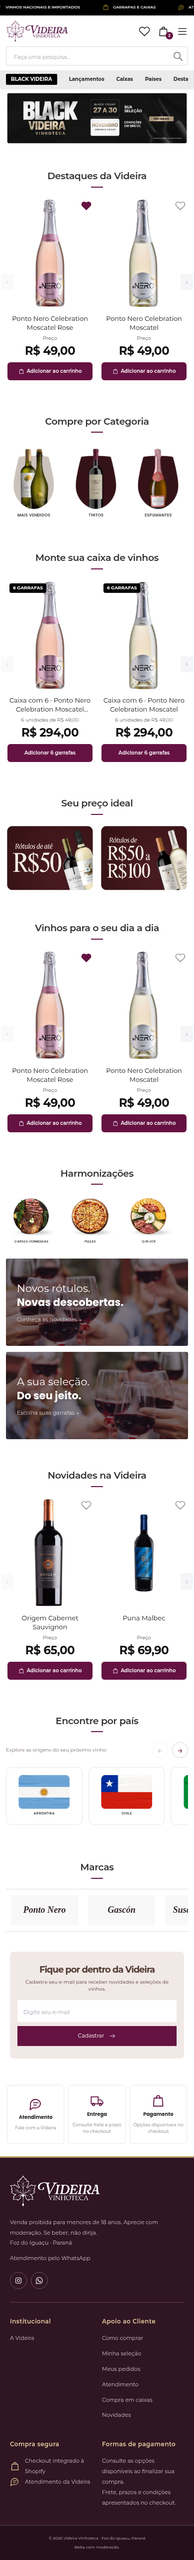
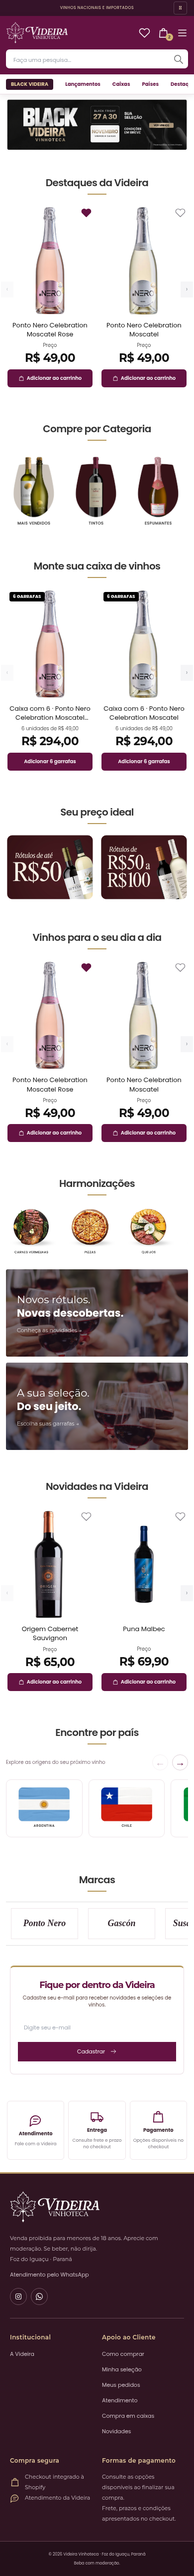
Restore original Videira product page and brand identity with single-message announcements

diff --git a/assets/videira-original-product.css b/assets/videira-original-product.css
@@ -1,0 +1,3 @@
+/* Product layout from Shopify-Videira main; scoped to product pages. */
+.zip-videira.template-product .pd-main{color:#171717;background:#fdf6e1}.zip-videira.template-product .pd-breadcrumb{display:flex;flex-wrap:wrap;gap:10px;font-size:12px;margin:0 0 30px;color:#51444a}.zip-videira.template-product .pd-breadcrumb a{text-decoration:underline;text-underline-offset:3px}.zip-videira.template-product .pd-grid{display:grid;grid-template-columns:minmax(0,1fr) minmax(0,1fr);gap:64px;align-items:start}.zip-videira.template-product .pd-gallery{position:sticky;top:110px}.zip-videira.template-product .pd-photo-button{position:relative;display:flex;align-items:center;justify-content:center;width:100%;min-height:540px;background:#fff;border:1px solid #e9e0d4;padding:40px;cursor:zoom-in}.zip-videira.template-product .pd-original-photo{display:block;max-width:100%;height:440px;object-fit:contain}.zip-videira.template-product .pd-zoom-hint{position:absolute;bottom:18px;right:18px;font-size:11px;color:#651242}.zip-videira.template-product .pd-summary h1{font-size:clamp(30px,3vw,44px);line-height:1.2;letter-spacing:-1.3px;margin:12px 0 18px;color:#171717}.zip-videira.template-product .pd-origin{font-size:12px;letter-spacing:.8px;margin:0;color:#51444a}.zip-videira.template-product .pd-winery{color:#651242;text-decoration:underline;text-underline-offset:4px;font-size:15px}.zip-videira.template-product .pd-style{font-size:14px;line-height:1.8;margin:12px 0 25px}.zip-videira.template-product .pd-price{padding:24px 0;border-top:1px solid #e5d9c8}.zip-videira.template-product .pd-price>span{font-size:12px;display:block}.zip-videira.template-product .pd-price>strong{display:block;font-size:34px;line-height:1.4;font-weight:700;color:#171717}.zip-videira.template-product .pd-price p{font-size:13px;line-height:1.7;margin:5px 0}.zip-videira.template-product .pd-purchase{display:flex;gap:16px;align-items:end}.zip-videira.template-product .pd-purchase label{font-size:12px;flex:0 0 82px}.zip-videira.template-product .pd-purchase input{display:block;width:82px;min-height:50px;margin-top:7px;border:1px solid #bdb0a0;background:white;border-radius:3px;padding:10px;font-size:16px;color:#171717}.zip-videira.template-product .pd-purchase .sf-button{flex:1;min-height:50px;background:#651242;color:white;border-color:#651242;border-radius:3px;font-size:13px!important;padding:12px}.zip-videira.template-product .pd-purchase button:disabled{opacity:.55;cursor:not-allowed}.zip-videira.template-product .pd-added{min-height:23px;font-size:12px;margin:8px 0}.zip-videira.template-product .pd-whatsapp{display:flex;align-items:center;justify-content:center;gap:12px;border:1px solid #651242;color:#651242;min-height:50px;font-size:13px;border-radius:3px;padding:12px}.zip-videira.template-product .pd-whatsapp svg{width:19px;height:19px}.zip-videira.template-product .pd-highlights{display:grid;grid-template-columns:1fr 1fr;gap:16px;padding:25px 0;margin-top:15px}.zip-videira.template-product .pd-highlights>div{border-bottom:1px solid #e5d9c8;padding-bottom:12px}.zip-videira.template-product .pd-highlights dt{font-size:11px;margin-bottom:5px;color:#51444a}.zip-videira.template-product .pd-highlights dd{font-size:14px;margin:0}.zip-videira.template-product .pd-information{margin-top:55px}.zip-videira.template-product .pd-section-nav{display:flex;flex-wrap:wrap;border-bottom:1px solid #cdbfac;gap:30px;padding:18px 0}.zip-videira.template-product .pd-section-nav a{font-size:14px;color:#171717}.zip-videira.template-product .pd-section-nav a:hover{text-decoration:underline;color:#651242}.zip-videira.template-product .pd-content{padding:34px 0;border-bottom:1px solid #e5d9c8;scroll-margin-top:115px}.zip-videira.template-product .pd-content h2{font-size:26px!important;color:#171717;margin:0 0 22px}.zip-videira.template-product .pd-content h3{font-size:15px;margin:0 0 10px;color:#171717}.zip-videira.template-product .pd-content p{font-size:14px;line-height:1.9;max-width:900px;white-space:pre-line;color:#242024}.zip-videira.template-product .pd-specs{display:grid;grid-template-columns:1fr 1fr;column-gap:50px;margin:0}.zip-videira.template-product .pd-specs>div{display:grid;grid-template-columns:1fr 1.3fr;gap:20px;padding:15px 0;border-bottom:1px solid #e5d9c8;font-size:14px}.zip-videira.template-product .pd-specs dt{color:#51444a}.zip-videira.template-product .pd-specs dd{margin:0;text-align:right}.zip-videira.template-product .pd-sensory{display:grid;grid-template-columns:1fr 1fr;gap:28px}.zip-videira.template-product .pd-photo-missing{display:flex;flex-direction:column;align-items:center;gap:20px;color:#51444a;font-size:13px}.zip-videira.template-product .pd-photo-missing svg{width:60px;height:60px}.zip-videira.template-product .pd-state{min-height:60vh;display:flex;flex-direction:column;gap:25px;align-items:center;justify-content:center;text-align:center}.zip-videira.template-product .pd-state h1{font-size:28px}.zip-videira.template-product .pd-zoom{position:fixed;inset:0;margin:auto;border:0;background:#fff;max-width:95vw;width:900px;height:90dvh;max-height:90dvh;padding:45px;overflow:auto}.zip-videira.template-product .pd-zoom[open]{display:flex;align-items:center;justify-content:center}.zip-videira.template-product .pd-zoom::backdrop{background:#160b16c9}.zip-videira.template-product .pd-zoom .pd-original-photo{height:100%;max-height:100%;max-width:100%;object-fit:contain}.zip-videira.template-product .pd-zoom-close{position:absolute;top:12px;right:12px;width:40px;height:40px;border:1px solid #d7cbbc;background:white;display:grid;place-items:center;color:#171717;z-index:1}.zip-videira.template-product .pd-zoom-close svg{width:22px;height:22px}.zip-videira.template-product .pd-main button:focus-visible,.zip-videira.template-product .pd-main a:focus-visible{outline:3px solid #f8af3c;outline-offset:3px}@media (max-width:760px){.zip-videira.template-product .pd-grid{grid-template-columns:1fr;gap:28px}.zip-videira.template-product .pd-gallery{position:static}.zip-videira.template-product .pd-photo-button{min-height:350px;padding:25px}.zip-videira.template-product .pd-original-photo{height:300px;max-width:100%}.zip-videira.template-product .pd-summary h1{font-size:31px}.zip-videira.template-product .pd-breadcrumb{font-size:11px;margin-bottom:22px}.zip-videira.template-product .pd-purchase{gap:12px}.zip-videira.template-product .pd-purchase .sf-button{font-size:11px!important}.zip-videira.template-product .pd-section-nav{gap:18px}.zip-videira.template-product .pd-section-nav a{font-size:12px}.zip-videira.template-product .pd-specs,.zip-videira.template-product .pd-sensory{grid-template-columns:1fr}.zip-videira.template-product .pd-content{padding:28px 0}.zip-videira.template-product .pd-content h2{font-size:24px!important}.zip-videira.template-product .pd-content p{font-size:13px}.zip-videira.template-product .pd-information{margin-top:25px}.zip-videira.template-product .pd-zoom{padding:45px 18px;width:95vw}.zip-videira.template-product .pd-price>strong{font-size:30px}}.zip-videira.template-product .storefront:has(.pd-main) .sf-service{margin-top:0}.zip-videira.template-product .storefront .pd-main{padding-bottom:0;background:#fdf6e1}.zip-videira.template-product .storefront .pd-main .sf-shelf{margin-bottom:0;padding-bottom:35px}.zip-videira.template-product .storefront .pd-purchase .sf-button,.zip-videira.template-product .storefront .pd-whatsapp{border-radius:var(--action-radius)!important}.zip-videira.template-product .storefront .pd-whatsapp{transition:background-color .2s ease,color .2s ease,border-color .2s ease,box-shadow .2s ease,transform .2s ease}.zip-videira.template-product .storefront .pd-purchase .sf-button:not(:disabled):hover,.zip-videira.template-product .storefront .pd-purchase .sf-button:not(:disabled):focus-visible{background:#f8af3c!important;color:#171117!important;border-color:#f8af3c!important;box-shadow:0 4px 12px #65124212}.zip-videira.template-product .storefront .pd-purchase .sf-button:disabled{cursor:not-allowed;opacity:.55}.zip-videira.template-product .storefront .pd-whatsapp:hover,.zip-videira.template-product .storefront .pd-whatsapp:focus-visible{background:#651242;color:white;border-color:#651242}.zip-videira.template-product .storefront a.pd-whatsapp:active{transform:scale(.98)}.zip-videira.template-product .storefront .pd-whatsapp svg:last-child{transition:transform .2s ease}.zip-videira.template-product .storefront .pd-whatsapp:hover svg:last-child{transform:translateX(3px)}.zip-videira.template-product .storefront:has(.pd-main),.zip-videira.template-product body:has(.pd-main),.zip-videira.template-product html:has(.pd-main){background:var(--product-paper,#fcf9f3)!important}.zip-videira.template-product .storefront .pd-main{background:var(--product-paper)!important}.zip-videira.template-product .storefront:has(.pd-main) .sf-service{background:#f5f0e7}.zip-videira.template-product .storefront .pd-photo-button{border-radius:14px;overflow:hidden}.zip-videira.template-product .storefront .pd-content{border-color:#e7dfd3}.zip-videira.template-product .storefront .pd-section-nav a{transition:color .2s ease,background-color .2s ease;padding:9px 13px;border-radius:8px}.zip-videira.template-product .storefront .pd-section-nav a:hover,.zip-videira.template-product .storefront .pd-section-nav a:focus-visible{background:#f4ebda;color:#651242}.zip-videira.template-product .storefront .pd-section-nav{padding:10px 0;gap:10px}.zip-videira.template-product .storefront .pd-summary{animation:videira-enter .45s ease both}@media (max-width:760px){.zip-videira.template-product .storefront .pd-purchase .sf-button{border-radius:8px!important}}@media (prefers-reduced-motion:reduce){.zip-videira.template-product .storefront .pd-summary{animation:none!important}}.zip-videira.template-product .storefront .pd-origin a{color:#651242;text-decoration:underline;text-underline-offset:3px}.zip-videira.template-product .storefront .pd-price>del{font-size:13px;color:#6d5a64}.zip-videira.template-product .storefront .pd-compact-information{margin-top:32px;display:grid;gap:0;border-top:1px solid #e7dfd3}.zip-videira.template-product .pd-detail-panel{border-bottom:1px solid #e7dfd3;padding:0;scroll-margin-top:110px}.zip-videira.template-product .pd-detail-panel>summary{display:flex;align-items:center;justify-content:space-between;gap:16px;padding:18px 0;cursor:pointer;list-style:none;font-size:17px;font-weight:700;color:#171717}.zip-videira.template-product .pd-detail-panel>summary::-webkit-details-marker{display:none}.zip-videira.template-product .pd-detail-panel>summary:after{content:"+";font-size:23px;font-weight:300;color:#651242}.zip-videira.template-product .pd-detail-panel[open]>summary:after{content:"−"}.zip-videira.template-product .pd-detail-panel>summary:focus-visible{outline:2px solid #f8af3c;outline-offset:3px}.zip-videira.template-product .pd-detail-panel p{font-size:13px;line-height:1.8;margin:0 0 18px;max-width:90ch;white-space:pre-line}.zip-videira.template-product .pd-detail-panel .pd-specs{margin:0 0 18px;gap:0 28px}.zip-videira.template-product .pd-detail-panel .pd-specs>div{padding:10px 0}.zip-videira.template-product .pd-detail-panel .pd-sensory{gap:16px 28px;padding:0 0 4px}.zip-videira.template-product .pd-detail-panel h3{font-size:13px;margin:0 0 6px}.zip-videira.template-product .pd-detail-panel a{color:#651242;text-decoration:underline}.zip-videira.template-product .pd-detail-panel .pd-specs dt,.zip-videira.template-product .pd-detail-panel .pd-specs dd{font-size:12px}@media (max-width:760px){.zip-videira.template-product .storefront .pd-compact-information{margin-top:24px}.zip-videira.template-product .pd-detail-panel>summary{padding:16px 0;font-size:16px}}.zip-videira.template-product .storefront .pd-style{white-space:normal;overflow:visible;overflow-wrap:anywhere;max-height:none}.zip-videira.template-product .storefront .pd-main .sf-product-row{display:flex;align-items:stretch;gap:16px;overflow-x:auto;scroll-snap-type:x proximity;padding-bottom:5px}.zip-videira.template-product .storefront .pd-main .sf-product-row>.sf-wine-card{width:230px!important;flex:0 0 230px!important;height:auto!important;align-self:stretch!important;scroll-snap-align:start}.zip-videira.template-product .storefront .pd-main .sf-product-row .sf-wine-visual{height:175px!important;min-height:0!important}.zip-videira.template-product .storefront .pd-main .sf-product-row .sf-wine-visual img.wine-photo{max-height:155px!important}.zip-videira.template-product .storefront .pd-main .sf-product-row .sf-wine-info{padding:12px!important;flex:1;display:flex;flex-direction:column}.zip-videira.template-product .storefront .pd-main .sf-product-row .sf-wine-info h3{min-height:0!important;margin-bottom:8px!important}.zip-videira.template-product .storefront .pd-main .sf-product-row .sf-wine-info>p{margin:0 0 4px!important}.zip-videira.template-product .storefront .pd-main .sf-product-row .sf-wine-price{margin:8px 0!important}.zip-videira.template-product .storefront .pd-main .sf-product-row .sf-add{margin-top:auto!important}@media (max-width:760px){.zip-videira.template-product .storefront .pd-main .sf-product-row>.sf-wine-card{width:210px!important;flex-basis:210px!important}.zip-videira.template-product .storefront .pd-main .sf-product-row .sf-wine-visual{height:155px!important}.zip-videira.template-product .storefront .pd-main .sf-product-row .sf-wine-visual img.wine-photo{max-height:140px!important}}.zip-videira.template-product .pd-detail-panel .pd-sensory-item{display:flex;align-items:flex-start;gap:14px;min-width:0}.zip-videira.template-product .pd-sensory-item>div{min-width:0;flex:1}.zip-videira.template-product .pd-detail-panel .pd-sensory-icon{width:44px;height:40px;flex:0 0 44px;color:#c58b2d;margin-top:1px}.zip-videira.template-product .pd-detail-panel .pd-sensory-item h3{margin:0 0 6px}.zip-videira.template-product .pd-detail-panel .pd-sensory-item p{margin:0 0 18px}@media (max-width:760px){.zip-videira.template-product .pd-detail-panel .pd-sensory-item{gap:12px}.zip-videira.template-product .pd-detail-panel .pd-sensory-icon{width:38px;height:35px;flex-basis:38px}}
+.zip-videira.template-product .pd-variant-label{display:block;margin-bottom:8px}.zip-videira.template-product .pd-variant{width:100%;padding:12px;border:1px solid #bdb0a0;background:white;margin-bottom:16px;border-radius:8px}.zip-videira.template-product .pd-thumbnails{display:flex;gap:10px;overflow:auto;margin-top:12px}.zip-videira.template-product .pd-thumbnails button{width:65px;height:80px;border:1px solid #e5d9c8;background:white;border-radius:8px;flex-shrink:0}.zip-videira.template-product .pd-thumbnails img{width:100%;height:100%;object-fit:contain}.zip-videira.template-product .pd-detail-panel{border-bottom:1px solid #e5d9c8;padding:20px 0}.zip-videira.template-product .pd-detail-panel summary{cursor:pointer;font-weight:600}.zip-videira.template-product .pd-detail-panel .rte,.zip-videira.template-product .pd-detail-panel>.pd-specs,.zip-videira.template-product .pd-detail-panel>p{margin-top:18px}@media (max-width:760px){.zip-videira.template-product .storefront .pd-product{padding-top:15px}}.zip-videira.template-product .storefront .pd-summary{animation:none}.zip-videira.template-product .storefront .pd-purchase .sf-button{display:flex;align-items:center;justify-content:center;gap:8px;min-width:0}.zip-videira.template-product .pd-purchase .sf-button svg{flex-shrink:0}.zip-videira.template-product .pd-purchase .sf-button span{line-height:1.4}

diff --git a/docs/preview.html b/docs/preview.html
@@ -17,6 +17,8 @@
 <link rel="stylesheet" href="../assets/zip-ciadoviinhoo.css">
 <link rel="stylesheet" href="../assets/zip-landing-page.css">
 <link rel="stylesheet" href="../assets/videira-zip.css">
+
+<link rel="stylesheet" href="../assets/videira-brand.css">
 <style>@font-face{font-family:Montserrat;font-style:normal;font-weight:100 900;font-display:swap;src:url('../assets/montserrat-variable.ttf') format('truetype')}:root{--nv-wine:#651242;--nv-gold:#b59758;--nv-paper:#ffffff}</style>
 <script src="../assets/videira.js" defer></script>
 <script src="../assets/videira-store.js" defer></script>
@@ -24,25 +26,7 @@
 
 <script src="preview.js" defer></script></head><body class="storefront zip-videira template-index">
 <a class="sf-skip" href="#conteudo">Pular para o conteúdo</a>
-<div class="shopify-section shopify-section-group-header-group nv-header-section"><div class="zip-perks" aria-label="Informações da Videira"><div class="zip-marquee"><div class="zip-marquee-track"><div class="zip-marquee-set"><span>
-<svg viewBox="0 0 24 24" fill="none" stroke="currentColor" stroke-width="1.6" stroke-linecap="round" stroke-linejoin="round" aria-hidden="true"><path d="M7 3h10l1 7a6 6 0 0 1-12 0l1-7ZM12 16v6m-4 0h8M6 9h12"/></svg>
-
- VINHOS NACIONAIS E IMPORTADOS</span><span>
-<svg viewBox="0 0 24 24" fill="none" stroke="currentColor" stroke-width="1.6" stroke-linecap="round" stroke-linejoin="round" aria-hidden="true"><path d="M5 7h14l1 14H4L5 7Z"/><path d="M9 8V6a3 3 0 0 1 6 0v2"/></svg>
-
- GARRAFAS E CAIXAS</span><span>
-<svg viewBox="0 0 24 24" fill="none" stroke="currentColor" stroke-width="1.6" stroke-linecap="round" stroke-linejoin="round" aria-hidden="true"><path d="M20 11a8 8 0 0 1-8 8H6l-4 3 1-7a8 8 0 1 1 17-4Z"/><path d="M8 10h8M8 14h5"/></svg>
-
- ATENDIMENTO VIDEIRA</span><span>BLACK VIDEIRA · 27 A 30 DE NOVEMBRO</span></div><div class="zip-marquee-set" aria-hidden="true"><span>
-<svg viewBox="0 0 24 24" fill="none" stroke="currentColor" stroke-width="1.6" stroke-linecap="round" stroke-linejoin="round" aria-hidden="true"><path d="M7 3h10l1 7a6 6 0 0 1-12 0l1-7ZM12 16v6m-4 0h8M6 9h12"/></svg>
-
- VINHOS NACIONAIS E IMPORTADOS</span><span>
-<svg viewBox="0 0 24 24" fill="none" stroke="currentColor" stroke-width="1.6" stroke-linecap="round" stroke-linejoin="round" aria-hidden="true"><path d="M5 7h14l1 14H4L5 7Z"/><path d="M9 8V6a3 3 0 0 1 6 0v2"/></svg>
-
- GARRAFAS E CAIXAS</span><span>
-<svg viewBox="0 0 24 24" fill="none" stroke="currentColor" stroke-width="1.6" stroke-linecap="round" stroke-linejoin="round" aria-hidden="true"><path d="M20 11a8 8 0 0 1-8 8H6l-4 3 1-7a8 8 0 1 1 17-4Z"/><path d="M8 10h8M8 14h5"/></svg>
-
- ATENDIMENTO VIDEIRA</span><span>BLACK VIDEIRA · 27 A 30 DE NOVEMBRO</span></div></div></div></div>
+<div class="shopify-section shopify-section-group-header-group nv-header-section"><div class="zip-perks zip-announcements" data-announcements aria-label="Informações da Videira"><div class="zip-announcement-window"><span class="zip-announcement">VINHOS NACIONAIS E IMPORTADOS</span><span class="zip-announcement" hidden>GARRAFAS E CAIXAS</span><span class="zip-announcement" hidden>ATENDIMENTO VIDEIRA</span><span class="zip-announcement" hidden>BLACK VIDEIRA · 27 A 30 DE NOVEMBRO</span></div><button type="button" data-announcement-pause aria-label="Pausar mensagens" aria-pressed="false">Ⅱ</button></div>
 <header class="zip-header vn-header"><div class="zip-header-middle zip-container"><a class="zip-logo" href="/" aria-label="Videira Vinhoteca — início">
 <img src="../assets/videira-logo.svg" alt="Videira Vinhoteca" width="180" height="63">
 

diff --git a/assets/videira-brand.css b/assets/videira-brand.css
@@ -1,0 +1,4 @@
+/* Videira identity over the approved storefront structure; white backgrounds. */
+.storefront.zip-videira{--zip-wine:#651242;--sf-wine:#651242;--sf-dark:#351329;--sf-paper:#fff;background:#fff!important;font-family:Poppins,Arial,sans-serif;color:#38242e}.zip-videira h1,.zip-videira h2,.zip-videira h3,.zip-videira button,.zip-videira input,.zip-videira select{font-family:Poppins,Arial,sans-serif}.zip-videira .zip-title h2.bg-title{font-family:Poppins,Arial,sans-serif!important;color:#651242;font-weight:600!important;letter-spacing:-.6px}.zip-videira .zip-title h2:after{background:#b59758!important;width:38px!important}.zip-videira .zip-header{background:#651242;color:white;box-shadow:0 3px 12px #35132918}.zip-videira .zip-logo img{filter:none}.zip-videira .zip-header-actions>a,.zip-videira .zip-header-actions>button{color:#fff}.zip-videira .zip-header-cart>span{background:#d4b575;color:#351329}.zip-videira .zip-search{border:0;border-radius:7px;background:#fff}.zip-videira .zip-search input{background:transparent}.zip-videira .zip-navigation{background:#fff;border-bottom:1px solid #eadce3;color:#651242}.zip-videira .zip-navigation .zip-black-link{background:#351329;color:#e7cf9f;border-radius:4px}.zip-videira .zip-dropdown{color:#38242e}.zip-videira .zip-mobile{background:#651242;color:white}.zip-videira .zip-mobile a{border-color:#ffffff26}.zip-videira .sf-wine-info h3{font-family:Poppins,Arial,sans-serif!important;color:#3b2431}.zip-videira .sf-wine-info .sf-add{font-family:Poppins,Arial,sans-serif!important}.zip-videira .sf-wine-price>strong{color:#651242}.zip-videira .nv-newsletter{background:#fff;border:1px solid #e9dce3;border-top:3px solid #b59758}.zip-videira .nv-newsletter h2{color:#651242}.zip-videira .nv-service-strip{background:#fff}.zip-videira .zip-brands a{background:#fff;border:1px solid #eee5e9}.zip-videira .zip-announcements{position:relative;display:flex;align-items:center;justify-content:center;background:#351329;color:#ecdbba;min-height:32px;overflow:hidden}.zip-announcement-window{width:calc(100% - 90px);max-width:1100px;height:32px;display:grid;place-items:center}.zip-announcements .zip-announcement{display:block;text-align:center;white-space:normal;font:500 10px/1.3 Poppins,Arial,sans-serif;letter-spacing:.8px;animation:videira-message-in .4s ease both}.zip-announcements [data-announcement-pause]{position:absolute;right:max(14px,calc((100vw - 1240px)/2));top:3px;width:27px;height:26px;background:transparent;border:1px solid #ffffff30;border-radius:4px;color:#ecdbba;font-size:10px}.zip-videira.template-product .pd-product{font-family:Poppins,Arial,sans-serif;background:#fff}.zip-videira.template-product .pd-main,.zip-videira.template-product .pd-gallery,.zip-videira.template-product .pd-photo-button{background:#fff}.zip-videira.template-product .pd-summary h1{color:#651242}.zip-videira.template-product .pd-purchase .sf-button{background:#651242;color:white}.zip-videira.template-product .pd-price strong{color:#651242}@keyframes videira-message-in{from{opacity:0;transform:translateY(10px)}to{opacity:1;transform:translateY(0)}}
+@media(max-width:760px){.zip-videira .zip-header-middle{padding:12px 0;gap:12px}.zip-announcements .zip-announcement{font-size:8px;letter-spacing:.5px}.zip-videira .zip-navigation>.zip-container{min-height:39px}.zip-videira .zip-title h2.bg-title{font-size:20px!important}.zip-videira .zip-search input{color:#38242e}}
+@media(prefers-reduced-motion:reduce){.zip-announcements .zip-announcement{animation:none}}

diff --git a/assets/videira-store.js b/assets/videira-store.js
@@ -81,3 +81,15 @@
  if(document.readyState === 'loading') document.addEventListener('DOMContentLoaded', () => initialize()); else initialize();
  document.addEventListener('shopify:section:load', event => initialize(event.target));
 })();
+
+(() => {
+ const initialize = (scope=document) => scope.querySelectorAll('[data-announcements]').forEach(el => {
+  if(el.dataset.ready)return;el.dataset.ready='true';
+  const items=[...el.querySelectorAll('.zip-announcement')], button=el.querySelector('[data-announcement-pause]');
+  const media=matchMedia('(prefers-reduced-motion: reduce)');let index=0,paused=false,timer;
+  const start=()=>{clearInterval(timer);if(paused||media.matches||document.hidden)return;timer=setInterval(()=>{if(!el.isConnected){clearInterval(timer);return;}items[index].hidden=true;index=(index+1)%items.length;items[index].hidden=false;},4200);};
+  button.addEventListener('click',()=>{paused=!paused;button.setAttribute('aria-pressed',String(paused));button.setAttribute('aria-label',paused?'Retomar mensagens':'Pausar mensagens');button.textContent=paused?'▶':'Ⅱ';start();});
+  el.addEventListener('mouseenter',()=>clearInterval(timer));el.addEventListener('mouseleave',start);el.addEventListener('focusin',()=>clearInterval(timer));el.addEventListener('focusout',start);document.addEventListener('visibilitychange',start);media.addEventListener('change',start);start();
+ });
+ if(document.readyState==='loading')document.addEventListener('DOMContentLoaded',()=>initialize());else initialize();document.addEventListener('shopify:section:load',e=>initialize(e.target));
+})();

diff --git a/README.md b/README.md
@@ -22,6 +22,12 @@ O ZIP contém somente pastas do tema. O repositório antigo Shopify-Videira não
 
 ## Interação e adaptação
 
-A faixa superior desliza continuamente e respeita a preferência de redução de movimento. Países usam carrossel com gesto de arrastar e botões; adicione blocos **País** na seção Loja ZIP para incluir nome, imagem e coleção de destino. Ao adicionar o primeiro bloco, cadastre também os países existentes que deseja manter.
+A faixa superior alterna uma mensagem por vez e respeita a preferência de redução de movimento. Países usam carrossel com gesto de arrastar e botões; adicione blocos **País** na seção Loja ZIP para incluir nome, imagem e coleção de destino. Ao adicionar o primeiro bloco, cadastre também os países existentes que deseja manter.
 
 O rodapé tradicional apresenta links sempre visíveis, identidade bordô e contatos da Videira. No celular, organiza-se em duas colunas; banners editoriais ficam empilhados e os serviços ocupam uma faixa compacta. No computador, o rodapé e os banners usam colunas mais amplas.
+
+## Identidade Videira e produto original
+
+A faixa superior apresenta uma mensagem por vez, alternando a cada 4,2 segundos; inclui pausa e respeita redução de movimento. A identidade utiliza bordô, dourado e Poppins, mantendo o fundo branco e a estrutura aprovada.
+
+A seção de produto foi recuperada de `Guilhsxzd12/Shopify-Videira/main`. Seus estilos originais de produto estão em `assets/videira-original-product.css`, isolados para não alterar outras páginas; a adaptação final aplica cores Videira e fundo branco. Galeria, detalhes, variantes e compra mantêm o código original.

diff --git a/docs/validacao.md b/docs/validacao.md
@@ -10,3 +10,5 @@
 Os testes locais usam LiquidJS e um servidor que simula endpoints Shopify. Não validam pagamento, frete, inscrição real na newsletter ou configurações da loja. Esses fluxos exigem a prévia Shopify e pedido de teste. Não houve publicação direta na loja.
 
 Revisão de interação: Chromium verificou o movimento real da faixa superior, rolagem dos países com dez itens simulados, rodapé com links visíveis sem acordeões e ausência de transbordamento horizontal em 1440 e 390 px. Os países extras do teste não fazem parte do catálogo publicado.
+
+Identidade e produto: repetidos os testes Chromium em desktop/celular; confirmada uma única mensagem visível e sua troca automática, variantes disponíveis/indisponíveis e compra. Capturas de produto em product-1440.png e product-390.png. A seção main-product.liquid foi recuperada integralmente do repositório original.
